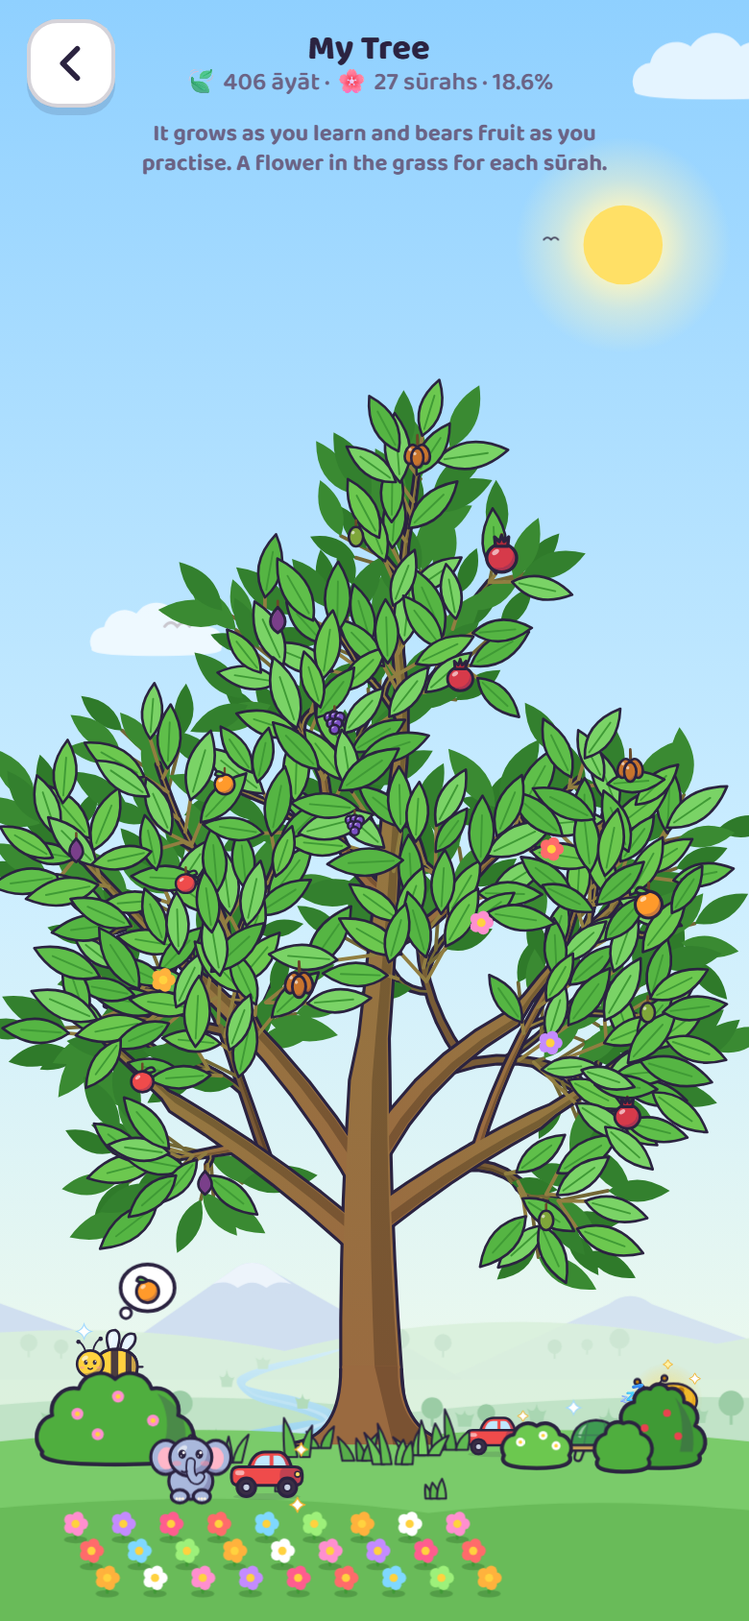
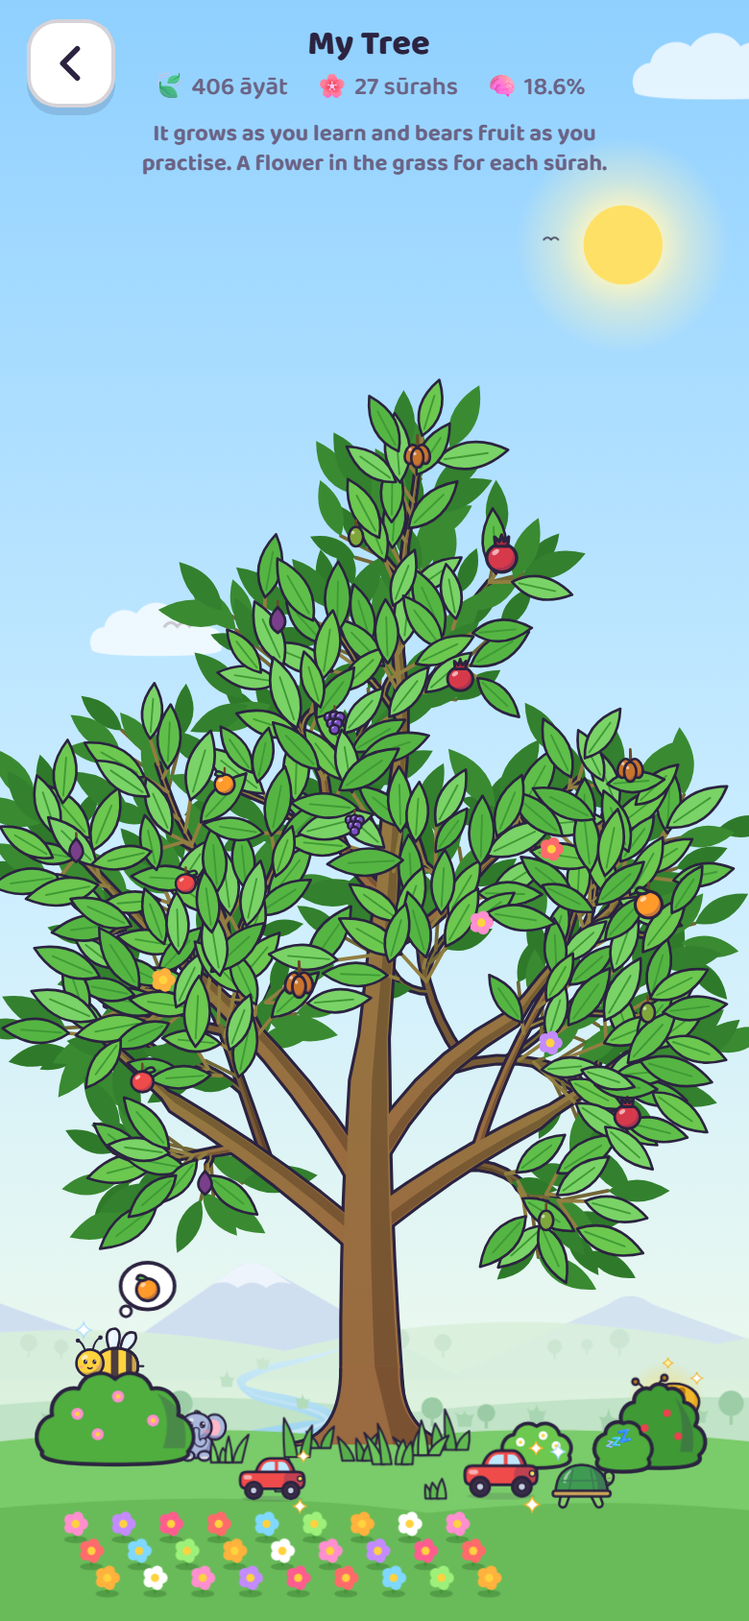
Little Hafiz Quest v2.10.1
The map opens faster (the scenery finds its places in a quarter of the time,
same places). Read lights each word of the chosen āyah as it's recited, in
the page and the close-up card, on every loop. A watch seen from behind shows
its band. My Explorer's View icon full size, its full view doesn't scroll and
the glow fades out before the edges. My Tree's numbers spaced with 🍃 🌸 🧠;
My Achievements uses the same icons and the map's journal book.

Claude-Session: https://claude.ai/code/session_01As7BUX4EtaXuekSPXQDVDY

diff --git a/js/game.js b/js/game.js
@@ -37,7 +37,7 @@
 (function () {
   'use strict';
 
-  const VERSION = '2.10.0';
+  const VERSION = '2.10.1';
   const DATA = window.LHQ_DATA;
   if (!DATA || !Array.isArray(DATA.surahs)) throw new Error('Little Hafiz Quest: js/data.js did not load.');
   const ART = window.LHQ_ART;
@@ -1089,6 +1089,12 @@
         seg = { start: Math.max(0, ay[0] - 0.05), end: ay[1] + 0.15 };
         // Word Steps: the whole āyah plays, and each word lights up as it's recited (v2.8.4)
         if (st.view === 'words' && ay[2] && S[st.i].n === it[0] && st.a === it[1] - 1) seg.ws = ay[2];
+        // Read (v2.10.1): the words of the chosen āyah light up the same way (`k`: which āyah this is; the
+        // Basmalah is -1), whether it was chosen before or while it plays
+        if (st.view === 'mushaf' && ay[2] && (it[0] === 1 || S[st.i].n === it[0])) {
+          seg.ws = ay[2];
+          seg.k = it[0] === 1 ? -1 : it[1] - 1;
+        }
       }
       curSeg = seg;
       markNow(it);
@@ -1136,6 +1142,16 @@
      those not revealed yet) and the one being recited lights up with its bead (`speak`); when the āyah ends
      (j = -1) every word goes back to how it was. */
   function speakWord(j) {
+    if (st.view === 'mushaf') {
+      // Read (v2.10.1): only while that āyah is the chosen one (its colored words, in the page and in the close-up
+      // card); not chosen, the whole āyah is lit instead (markNow)
+      const on = j >= 0 && curSeg && st.sel != null && st.sel === curSeg.k,
+        els = on ? [document.querySelectorAll('.mayah.sel .mw')[j], document.querySelectorAll('.mfocus .fword')[j]].filter(Boolean) : [];
+      if (els.length && els.every((el) => el.classList.contains('speak'))) return;
+      document.querySelectorAll('.mw.speak, .fword.speak').forEach((el) => el.classList.remove('speak'));
+      els.forEach((el) => el.classList.add('speak'));
+      return;
+    }
     const boxes = document.querySelectorAll('.wflow > .wbox'),
       beads = document.querySelectorAll('.beads > .bead');
     if (j >= 0 && boxes[j] && boxes[j].classList.contains('speak')) return;
@@ -2947,7 +2963,7 @@
       : `<button class="wd-side wd-comfy" data-act="comfy" ${fancy ? '' : 'disabled'} aria-label="Just comfy clothes">👕<small>Comfy</small></button>`;
     return `<div class="screen bagscr ${st.fullView && tab !== 'look' ? 'fullv' : ''}">
     ${bar(whoBtn(prof, 'My Explorer'), prof.name || store.profiles.filter((p) => p.made).length > 1 ? 'My Explorer' : '', 'map', giftIcon(prof, 'inbar') + `<button class="btn small editme" data-act="editme" aria-label="Change your explorer: name and look">✏</button>`)}
-    <div class="wd-stage"><button class="wd-ex" data-act="exmove" aria-label="Tap your explorer">${explorer({ view: st.backView && tab !== 'look' ? 'back' : 'front' })}</button>${tab === 'look' ? '' : `${comfy}<button class="wd-side wd-turn" data-act="turn" aria-label="Turn around">↻<small>Turn</small></button><button class="wd-side wd-full" data-act="exfull" aria-label="See your explorer big">⤢<small>View</small></button><button class="wd-side wd-show" data-act="show" aria-label="My achievements">🏆<small>Awards</small></button>`}</div>
+    <div class="wd-stage"><button class="wd-ex" data-act="exmove" aria-label="Tap your explorer">${explorer({ view: st.backView && tab !== 'look' ? 'back' : 'front' })}</button>${tab === 'look' ? '' : `${comfy}<button class="wd-side wd-turn" data-act="turn" aria-label="Turn around">↻<small>Turn</small></button><button class="wd-side wd-full" data-act="exfull" aria-label="See your explorer big">${ICON.fsIn}<small>View</small></button><button class="wd-side wd-show" data-act="show" aria-label="My achievements">🏆<small>Awards</small></button>`}</div>
     ${tab === 'look' ? '' : `<div class="wtwrap"><div class="wtabs" id="wtabs">${tabs}</div><button class="cpmore cpless" data-act="wtscroll" data-d="-1" aria-label="Earlier categories">‹</button><button class="cpmore" data-act="wtscroll" data-d="1" aria-label="More categories">›</button></div>`}
     <div class="wbody">${body}</div>
   </div>`;
@@ -3028,12 +3044,12 @@
   // badges, then the side activities (journal, riddles), then days in a row and time
   const ACH_ROWS = (a, prof) => [
     ['🧠', `${questPct(prof)}%`, 'memorized'],
-    ['🏆', `${a.memorized}`, 'sūrahs memorized'],
-    ['🗣', `${a.ayat}`, `of ${a.allAyat} āyāt learned`],
+    ['🌸', `${a.memorized}`, 'sūrahs memorized'],
+    ['🍃', `${a.ayat}`, `of ${a.allAyat} āyāt learned`],
     ['🎁', `${a.items}`, `of ${a.allItems} things won`],
     ['⭐', `${a.stars}`, `of ${MAX_STARS} stars`],
     ['🏅', `${a.badges}`, a.badges === 1 ? 'star badge' : 'star badges'],
-    ['📔', `${a.found}`, `of ${JKEYS.size} journal finds`],
+    [BOOK_IC, `${a.found}`, `of ${JKEYS.size} journal finds`], // (the map's journal book, v2.10.1)
     ['🔎', `${Math.min(a.riddles, riddleCount())}`, `of ${riddleCount()} riddles found`],
     ['🏃', `${a.streak} ${a.streak === 1 ? 'day' : 'days'}`, `in a row · best ${a.best}`],
     ['⏱', fmtTime(a.time), 'spent learning'],
@@ -3089,7 +3105,7 @@
           row = Math.floor(j / 2),
           x = 80 + col * 470,
           y = 776 + row * 100; // (five rows of two since v2.10.0: clear of the address at the bottom)
-        return `<g transform="translate(${x} ${y})"><rect width="450" height="90" rx="28" fill="#ffffff" fill-opacity=".92"/><text x="30" y="60" font-size="44">${ic}</text><text x="100" y="48" font-size="38" font-weight="800" fill="#2b2340">${esc(big)}</text><text x="100" y="77" font-size="24" font-weight="700" fill="#6b6385">${esc(sub)}</text></g>`;
+        return `<g transform="translate(${x} ${y})"><rect width="450" height="90" rx="28" fill="#ffffff" fill-opacity=".92"/>${ic[0] === '<' ? ic.replace('<svg ', '<svg x="26" y="22" width="54" height="46" ') : `<text x="30" y="60" font-size="44">${ic}</text>`}<text x="100" y="48" font-size="38" font-weight="800" fill="#2b2340">${esc(big)}</text><text x="100" y="77" font-size="24" font-weight="700" fill="#6b6385">${esc(sub)}</text></g>`;
       })
       .join('');
     const svg = `<svg xmlns="http://www.w3.org/2000/svg" width="${X}" height="${Y}" viewBox="0 0 ${X} ${Y}">
@@ -4604,6 +4620,7 @@
         st.fullView = !st.fullView;
         const scr = $app.querySelector('.bagscr');
         if (scr) scr.classList.toggle('fullv', st.fullView);
+        if (st.fullView) scrollTo({ top: 0, behavior: reduceMotion ? 'auto' : 'smooth' }); // (the page doesn't scroll in it, v2.10.1)
         break;
       }
       case 'equip': {
@@ -6400,7 +6417,7 @@
     const spots = budSpots(buds.length, info.size, buds),
       order = buds.map((id, j) => j).sort((p, q) => spots[p].y - spots[q].y),
       hide = [...new Set(spots.filter((sp) => sp.at != null).map((sp) => sp.at))];
-    const sub = `🍃 ${info.leaves} āyāt · 🌸 ${info.memorized} sūrahs · ${questPct(prof)}%`;
+    const sub = `<span class="tstats"><span>🍃 ${info.leaves} āyāt</span><span>🌸 ${info.memorized} sūrahs</span><span>🧠 ${questPct(prof)}%</span></span>`;
     return `<div class="screen treescr${night ? ' night' : ''}">
     ${bar('My Tree', sub, 'map')}
     <p class="tnote">${info.size >= 0.999 ? 'MāshāAllāh! Your tree is fully grown, with a flower for every sūrah.' : 'It grows as you learn and bears fruit as you practise. A flower in the grass for each sūrah.'}</p>

diff --git a/tests/cases/v2101.js b/tests/cases/v2101.js
@@ -1,0 +1,40 @@
+// v2.10.1: Read lights each word of the chosen āyah as it's recited (in the page and in the close-up card), over and
+// over in a loop; with no āyah chosen the whole āyah is lit. And the explorer's watch from behind.
+(async () => {
+  fixture({ items: ['explorer-watch'], outfit: { watch: 'explorer-watch' } });
+  const { w, d, L, idx } = await openGame();
+  const errs = watchErrors(w);
+  const i = idx(112);
+  // 1. an āyah chosen (colored words): Listen plays it, its words light up one after another
+  L.go('mushaf', { i, p: 0, sel: 0, focus: false }); await wait(500);
+  const n = d.querySelectorAll('.mayah.sel .mw').length;
+  const lit = [];
+  const look = (sel) => { const all = [...d.querySelectorAll(sel)], j = all.findIndex((e) => e.classList.contains('speak')); if (j >= 0 && lit[lit.length - 1] !== j) lit.push(j); };
+  d.querySelector('.listen').click();
+  for (let t = 0; t < 80 && d.querySelector('.listen b').textContent === 'Stop'; t++) { await wait(100); look('.mayah.sel .mw'); }
+  log('āyah 1 words', n, '| lit in turn:', lit.join(','));
+  ok('each word of the chosen āyah lights up in turn', n > 1 && lit.length === n && lit.every((j, k) => j === k), lit.join(','));
+  ok('none lit once it ends', !d.querySelector('.mw.speak'));
+  // 2. the close-up card, in a loop (3×): the words light up again from the start
+  L.go('mushaf', { i, p: 0, sel: 0, focus: true }); await wait(500);
+  d.querySelector('.mfloat .loopbtn').click(); await wait(100);
+  lit.length = 0;
+  d.querySelector('.listen').click();
+  for (let t = 0; t < 260 && d.querySelector('.listen b').textContent === 'Stop'; t++) { await wait(100); look('.mfocus .fword'); }
+  log('close-up, loop: lit', lit.join(','));
+  ok('in the close-up card too, and again with each loop', lit.join(',') === [...Array(n).keys(), ...Array(n).keys(), ...Array(n).keys()].join(','), lit.join(','));
+  d.querySelector('.mfloat .loopbtn').click(); await wait(100);
+  // 3. no āyah chosen: the whole āyah lit, no single words
+  L.go('mushaf', { i, p: 0, sel: null, focus: false }); await wait(500);
+  d.querySelector('.listen').click();
+  let whole = false, word = false;
+  for (let t = 0; t < 40; t++) { await wait(100); whole = whole || !!d.querySelector('.mayah.now'); word = word || !!d.querySelector('.speak'); }
+  d.querySelector('.listen').click(); await wait(200);
+  ok('no āyah chosen: the whole āyah is lit, no single words', whole && !word);
+  // 4. the watch from behind: its band and buckle, not its face
+  const A = w.LHQ_ART, look1 = L.store().profiles[0].look;
+  const front = A.explorer(look1, { watch: 'explorer-watch' }, { view: 'front' }), back = A.explorer(look1, { watch: 'explorer-watch' }, { view: 'back' });
+  ok('the watch shows its face from the front and only its band from behind', front.includes('#ef4b4b') && !back.includes('#ef4b4b'));
+  ok('no game errors', !errs.length, errs.slice(0, 3).join('; '));
+  done();
+})();

diff --git a/js/map.js b/js/map.js
@@ -119,8 +119,21 @@
       const top = wi === W.length - 1 ? 0 : (last.y + nodes[last.i + 1].y) / 2;
       return { wi, top, bottom, mid: (first.y + last.y) / 2, first: first.i, last: last.i };
     });
-    // path x at a given y, used to keep props away from the path
-    const pathXs = (y) => path.filter((p) => Math.abs(p.y - y) < 40).map((p) => p.x);
+    // path x at a given y, used to keep props away from the path. (v2.10.1) The points are kept in 40 px rows by
+    // height, so a question looks only at the rows next to it, not the whole path (thousands of questions while
+    // the scenery finds its places); the same points come back, in the path's order
+    const rows = new Map();
+    path.forEach((p, k) => {
+      const r = Math.floor(p.y / 40);
+      if (!rows.has(r)) rows.set(r, []);
+      rows.get(r).push(k);
+    });
+    const pathXs = (y) => {
+      const r = Math.floor(y / 40),
+        ks = [];
+      for (let j = r - 1; j <= r + 1; j++) for (const k of rows.get(j) || []) if (Math.abs(path[k].y - y) < 40) ks.push(k);
+      return ks.sort((a, b) => a - b).map((k) => path[k].x);
+    };
     // the borders between worlds and where the path crosses them (center, length across the strip, angle)
     const borders = bands.slice(0, -1).map((b) => {
       const y = b.top,
@@ -209,7 +222,8 @@
       // Nothing is placed where its picture would cover another one (so no animal hides behind a mountain),
       // and everything is drawn back to front, so what stands nearer is drawn over what stands further away.
       const walkers = new Set(ART.WALKERS || []);
-      const isTall = (name) => /viewBox="0 0 100 150"/.test(ART.props[name] || ''); // trees, palms, cacti… are drawn 100×150
+      const tall = new Map(), // (each kind looked up once: v2.10.1)
+        isTall = (name) => (tall.has(name) ? tall.get(name) : tall.set(name, /viewBox="0 0 100 150"/.test(ART.props[name] || '')).get(name)); // trees, palms, cacti… are drawn 100×150
       const grow = Math.max(1, Math.min(1.35, width / 460)); // props a little bigger on tablets and computers
       const scenery = []; // { y, html }, sorted by y before drawing
       const propHTML = (name, x, y, size, hgt, rnd, wi) => {

diff --git a/js/art.js b/js/art.js
@@ -1756,6 +1756,8 @@
   function watch(band, face, inner, big) {
     // a glowing watch (face.glow): a soft halo around its face that breathes (v2.8.4)
     const halo = (r) => (face.glow ? G(CF(0, 0, r, face.glow, 0.22) + CF(0, 0, r * 0.8, face.glow, 0.3), cls('wglow')) : '');
+    // (v2.10.1) from behind: the band and its buckle, no face
+    if (big === 'back') return P(rr(-9.6, -4.6, 19.2, 9.2, 3.4), band) + P(rr(-3.4, -3.4, 6.8, 6.8, 1.4), 'none', ' stroke="#c9d2e3" stroke-width="1.8"') + L('M0 -3.4L0 3.4', '#c9d2e3', 1.4);
     if (!big) return halo(11) + P(rr(-9.6, -4.6, 19.2, 9.2, 3.4), band) + ball(0, 0, 6, 6, face.rim, { sh: false, hl: false }) + C(0, 0, 3.8, face.c, sw(1.4)) + (face.mini || '');
     return halo(36) + S(rr(-12, -44, 24, 88, 10), band, rr(4, -44, 8, 88, 4)) + [-34, -26, 26, 34].map((y) => CF(0, y, 2, dk(band, 0.4))).join('') +
       ball(0, 0, 24, 24, face.rim, { hl: false }) + C(0, 0, 18, face.c) + inner + F('M-14 -8Q-12 -14 -6 -16Q-11 -9 -12 -2Z', '#fff', 0.55);
@@ -2018,6 +2020,7 @@
   WATCHES().forEach((id) => {
     const a = ART[id];
     a.ex = () => G(OUT(a.w(false) + fxm(BYID[id].tier, [[-9, -8], [9, 7]], 0.8), 2.2), WATCH_AT);
+    a.exb = () => G(OUT(a.w('back'), 2.2), WATCH_AT); // (seen from behind, v2.10.1)
   });
 
   /* ---------- explorer assembly ---------- */
@@ -2148,7 +2151,7 @@
     const sleeve = S(SLEEVE, top.sl, SLEEVE_SH) + S(CUFF, top.cf);
     const hand = ball(HAND[0], HAND[1], HAND[2], HAND[2], sk, { hl: false, dx: 0.2, dy: 0.25 });
     const stickArt = o.stick ? G(G(ART[o.stick].ex() + fxOf('stick'), STICK_TILT), cls('ex-stick')) : '',
-      watchArt = o.watch ? ART[o.watch].ex() : '';
+      watchArt = o.watch ? (back && ART[o.watch].exb ? ART[o.watch].exb() : ART[o.watch].ex()) : '';
     const stickHand = stickArt + hand + L('M41.6 207.6Q46 205.4 50.6 207', dk(sk, 0.35), 1.6) + watchArt;
     const otherHand = G(hand, MIR) + (o.shield ? ART[o.shield].ex() : ''); // the free hand, on the other side from the staff
     // (v2.10.0) seen from the back, what the hands hold is on the far side of the explorer: the staff and the shield

diff --git a/css/game.css b/css/game.css
@@ -10438,3 +10438,48 @@ body.riddling .mfruit::after {
   transform: none;
   animation: none;
 }
+
+/* ---------- 2026-11-11 · v2.10.1: My Explorer's View icon a proper size; the glow behind the explorer fades out
+   before the edges (no box in the full view); the full view doesn't scroll; Read lights each word as it's recited;
+   My Tree's numbers spaced, without dots ---------- */
+.wd-side svg.i {
+  width: 24px;
+  height: 24px;
+  color: var(--ink);
+}
+.bagscr .wd-stage {
+  background:
+    radial-gradient(ellipse 130px 16px at 50% calc(100% - 18px), rgba(0, 0, 0, 0.16), rgba(0, 0, 0, 0)),
+    radial-gradient(ellipse closest-side at 50% 55%, rgba(255, 255, 255, 0.75), rgba(255, 255, 255, 0));
+}
+html:has(.bagscr.fullv),
+html:has(.bagscr.fullv) body {
+  overflow: hidden;
+  overscroll-behavior: none;
+}
+.bagscr.fullv {
+  touch-action: none;
+}
+.mw,
+.fword {
+  transition:
+    transform 0.15s,
+    box-shadow 0.15s;
+}
+.mw.speak,
+.fword.speak {
+  position: relative;
+  z-index: 1;
+  box-shadow: 0 0 0 3px var(--wc);
+  transform: scale(1.1);
+}
+.tstats {
+  display: flex;
+  justify-content: center;
+  gap: 14px;
+  margin-top: 5px;
+}
+.ach-ic .wr-mapic {
+  width: 30px;
+  height: 26px;
+}

diff --git a/sw.js b/sw.js
@@ -17,7 +17,7 @@
  */
 'use strict';
 
-const VERSION = '2.10.0';
+const VERSION = '2.10.1';
 const SHELL_CACHE = `lhq2-shell-${VERSION}`;
 const AUDIO_CACHE = 'lhq2-audio'; // keep across app updates; change only if the audio files change
 const DATA_CACHE = 'lhq2-data'; // small lists that can change between versions (reciters, versions)

diff --git a/HANDOFF.md b/HANDOFF.md
@@ -3,7 +3,7 @@
 Read this first in a new session. It is kept up to date with every release (see "Release flow" below).
 `README.md` is a short public overview (highlights, install, privacy, credits); this file holds the detail.
 
-**Current version:** v2.10.0 (2026-11-11) · **Live:** https://akramali.github.io/little-hafiz-quest/ ·
+**Current version:** v2.10.1 (2026-11-11) · **Live:** https://akramali.github.io/little-hafiz-quest/ ·
 **Repo:** https://github.com/akramali/little-hafiz-quest (branch `main`; `v1` keeps the retired classic version)
 
 ---
@@ -262,6 +262,12 @@ The test fixture's memorized sūrahs have campfires lit two days ago (roaring, b
   what the question shows (v2.7.5: the āyah given, or its first `cut` words as one item `[n, k, 0, cut-1]`, a
   word-range item `playNext` understands; Listen sits top right as everywhere, shown only in the ask phase;
   the title says "Test · <sūrah>" with the question dots under it, the pair exactly as tall as Listen, v2.7.7); Picture Puzzle → the next piece to place, then the whole once all are in (v2.7.3); the rest as before.
+- **Read's words follow the reciter** (v2.10.1): with an āyah chosen (its coloured words, or its close-up card), Listen
+  lights each word as it's recited, like Word Steps (`seg.ws` and `seg.k` for the muṣḥaf in `playNext`; `speakWord`
+  puts `.speak` on `.mayah.sel .mw` and `.mfocus .fword`), from the first word again on each loop; with none chosen
+  the whole āyah is lit (`markNow`). Chosen while it plays: from the next word on.
+- **Seen from behind** (v2.10.1): the explorer's staff and shield are behind the body (a shield shows its back,
+  `exb`), and a watch shows its band and buckle, no face (`watch(…, 'back')`, `exb`).
 - **Pop-ups:** a tap outside closes any of them (v2.7.16): the Teacher's card = Not now, out of hearts = Next time
   (back to the sūrah; "Try again" is the explicit choice, `dropNext`), the welcome shows again next map visit.
 - **Swiping pages** (v2.7.14; on phones by touch events since v2.7.16, as a browser may cancel pointer events
@@ -396,11 +402,15 @@ The test fixture's memorized sūrahs have campfires lit two days ago (roaring, b
   holds its frame rate; My Tree was the one that didn't (24 fps at 100% without a GPU): now its tree is a layer of its
   own (`.ttree` between `.tback` and `.tfront`, swaying as a whole on the graphics card), kept between redraws
   (`treeArt`), drawn with half the elements (dark leaves and twigs as one shape a colour, a leaf's fill and outline in
-  one), and at most 40 new leaves pop in. **Next: v2.10.1 (agreed with the user):** the map takes ~140 ms to open (`MAP.mount` builds
-  357 KB of HTML, ~3,500 SVG elements, a 110 ms long task: each scenery prop drawn in full every time, ~68 kinds).
-  Plan: the **still** props drawn once as `<symbol>`s and placed with `<use>`; props with animations inside stay full
-  copies (Safari has had bugs animating inside `<use>`, and can't be tested here). Measure before/after with
-  `GPU=1 tests/run.sh perf` (v2.10.0: map draw 141 ms, 4,500 nodes), run `tests/t.sh map`, compare screenshots.
+  one), and at most 40 new leaves pop in. **The map (v2.10.1):** opening it took ~65 ms of script here, and timing
+  `MAP.mount` section by section showed where: finding the scenery its places, 25 ms (`pathXs` scanned the whole
+  path for each of thousands of tried spots; now it looks only at the 40 px rows by height around it, the same points
+  in the same order; `isTall` searched each prop's drawing three times a try; now once a kind), down to ~7 ms;
+  the same places exactly (checked by a fingerprint of every position). The rest is the browser's first layout of
+  ~3,800 elements (~25 ms) and putting the HTML in (~9 ms). **Tried and dropped:** each prop drawn once and placed
+  with `<use>` (still ones only, then all of them): 30–45 KB less HTML but no measurable time, and Safari has had bugs
+  animating inside `<use>`. If the map needs to be faster still, the next idea is keeping the map between visits
+  (rebuilding only what changed) rather than drawing less.
 
 - Side activities brainstormed and not built yet (v2.9.0 built the riddle, the buddy, the garden and special days):
   bedtime sūrah by the campfire, story pages per world, a daily postcard, an echo game, a family challenge.
@@ -422,4 +432,4 @@ v2.3–2.4: nature sounds, jigsaw, Read view, awards, files. v2.5.0: family sync
 classic v1 retired, word meanings. v2.5.1–2.5.8: buttons, speed, info/how-to, fruit and animals, all explorers on
 the map, chain setting, gift fixes, faces, glasses, Big Puzzle. v2.6.0: golden/green worlds, world rides, speed
 button, one-tap gifts, the Wise Elder. v2.6.1–2.6.6: Wise Elder polish, closing animations, stakes (every miss costs,
-world throws, protection), battle ground in the world's colors. v2.6.7: the Wise Elder every 10 minutes; speed and loop in Word Steps and Stepping Stones. v2.6.8: Read starts with the Bismillah (āyah -1, word data in `BISM_WORDS`) and follows the recited āyah; the screen stays on while reciting (`keepAwake`, Wake Lock; 99× loops let go after 15 min); full world names in the list. v2.6.9: no text selection or long-press menus (text boxes and the share picture excepted); zoom kept. v2.6.10: My Achievements fits on one screen. v2.6.11: the Stranger becomes the Wise Elder (a kind old man, star staff, woven belt, swaying robe), renamed everywhere. v2.6.12: the Wise Elder walks with you through the world (taller, comforting, soft hurt, neutral "Test" wording), gives his staff at the summit; Read with the Bismillah plays the whole sūrah again. v2.6.13: the Wise Elder every 7 minutes, gentler robe sway, simpler praise; the temporary Elder test button removed. v2.10.0: family links about half as long (format 3); riddles one and done (240, in an order of each explorer's own; the journal header's 🔎 shows the way to the next gift, every seventh found, two minutes apart, seven a day at most; fruit to catch, bridges, signs and every sūrah stop to find); a new recitation, Alafasy live in California (QuranicAudio + QUA timings); how much is memorized (`questPct`: āyāt 30, memorized 30, golden 40, to one decimal; only the learning, not the gifts or side games, so it says "memorized") on My Tree and as the first of My Achievements' ten boxes (`ACH_ROWS`, by priority: % memorized, sūrahs, āyāt, things won; stars, star badges; journal, riddles; days in a row, time; the Share picture five rows of two); the finish screen's star slots to the next prize (`nextPrizeNote`, the new star popping in); My Explorer's full view (⤢ View; back leaves it first); the next learning step's gold ring drawn over its bottom edge, quicker, a stronger glow; Word Steps lights only the word being recited while Listen plays; the Teacher's end screen fits short phones (the square gift box kept); dates drawn as an amber bunch, more fruit kinds sooner; the throw badges a size smaller; My Tree in three layers (smooth at full size). v2.9.5: each review game's hearts left on its star line on the sūrah page (no "careful, 3 hearts!" line; `gameHearts`/`heartsFor`); no Start buttons on the steps: the next learning step glows softly (`.qstep.glow`), review games never; at night most buddies sleep, one or two stay up (`nightOwls`, a new pair each ten minutes); the map's animals run off facing the way they go (`runAway` turns them, pauses their stroll); in Stepping Stones the heart goes once the frog has fallen in (`oopsAt`, one misstep at a time); the garden by night darker and bluer (`nightTint`: ground, bushes, mound, tufts); no leaves before the first āyah (just the mound); the riddle's gold outline itself breathes in and out. v2.9.4: the sun and moon never under the note, the sky right up under the status bar, the riddle's clue on the map opens and closes like a card (a bigger ✕) and, like the journal's, glows breathing slowly; hearts lost in a review game stay lost until it's finished (in memory, `heartsLeft`, refilled by finishing or closing the app); a new āyah in Look & Repeat and Word Steps slides in however it came (`lastAyah` in `render`); puzzle pieces tinted from their pictures as the phone draws them (`emojiTint`); a thing's blocks in its tile's corner still (`blockIcons`: two side by side, the apple under the acorn, ✨ for everything); the world's drifting animals only on the sūrah's page, not inside a step or Read; the speed labels under the slider's stops (`--n`); the frog's misstep (worried, falls in halfway through a hop, smiling again on its stone; `placeTap` measures where it sits). v2.9.3: the note no longer under the bar on notched phones, one flower name at a time, buddies do a move when tapped (closed eyes and 💤 fading for sleepers), fallen fruit lies on the ground for a squirrel or rabbit and grows back, a smooth sway (gusts on their own layer), the moon's glow fades, README pictures of My Tree, the journal and a riddle. v2.9.2: My Tree fills the screen with a whole world (sky, far mountains, hills and a river), grows naturally from a seedling (leaves on twigs, light and dark, sized by age; wood green to brown; bushes and fruit growing with it), more buddies coming and going, flowers show their sūrah, no buddy messages, smooth walk back after eating; the start screen's trail one smooth path with a plain Summit sign. v2.9.1: seven riddles a day from all over the map (opened from the journal, a minute apart, no tries), My Tree (one tree for the whole journey, the buddies around it, fruit to feed them, stickers to hang) replacing the plants at the stops and the buddy care on the map, the Teacher stays near the explorer's world, the 🌰/🍎 throw icon alternates, shorter "your things fell" messages. v2.9.0 (never reached anyone): special days (garlands, greetings, stickers), campfires low or out on mistakes, 30 s per answer, speeds 0.5–1.5×. v2.8.4: the Teacher's test 3–7 questions by length, 15 s per answer, his round stops for the day (in a card), the Summit crown only with every sūrah memorized (early ones taken back), journal pictures only from begun checkpoints (early ones dropped), the campfire burning up to roaring on done pages and after his test, no star shown on a revision, family links carry the version (newer: update first), speeds 0.5–2× with 1.25×, Word Steps lights each word as recited, every design at once with every sūrah memorized, "N of M things won", more pants/watches (glowing ones)/glasses/capes/sticks/shields/hijabs/kufis and 16 new stickers. v2.8.3: the sūrahs list rings each number gold/green, Stars without campfires and with whole meanings. v2.8.2: the roaring campfire redrawn (the strong flame, bigger, with two tips). v2.8.1: the Stranger keeps bridges from World 4 up (never on the map), once per world memorized from the start; the farewell at the end; streaks right on clock-change days. v2.8.0: the Stranger returns (once per world memorized, the Teacher at your side, nothing lost; the last time with the whole Juz), six campfire steps, hearts 4 and 5 from worlds 5 and 6, the frog lands on the next set, patterned gifts no longer freeze their card, saved names `teacher`/`stranger`. v2.7.23: journal pictures only in Look & Repeat. v2.7.22: 50 pattern versions of everyday things, surprises paced to last until every star. v2.7.21: Teacher visits regardless (more for cold fires), winning back = the gift, frog bank/slip, apples and ice, aviator shades redrawn, stickers still to win as tiles. v2.7.20: the streak button reads "🏃 4 days". v2.7.19: the install banner under the top buttons, called Install. v2.7.18: install banner. v2.7.17: Home zooms back out, ✏ Change your explorer, 🏃 streak, the update note closes on a tap outside. v2.7.16: making an explorer laid out like My look, every color for everyone, tap outside closes any pop-up (out of hearts: Next time), swipes work by touch on phones. v2.7.15: the explorer's name as the title of My Explorer / My Achievements. v2.7.14: swipe and Back in How to play, swipe in Word Steps, map bubbles kept on screen. v2.7.13: campfires over three weeks, low ones breathe, the Teacher visits cold fires, relit fires flare, campfires in the sūrahs list. v2.7.12: How to play = the Teacher's guide cards; every journal thing always on the map. v2.7.11: the welcome covers the four steps, dressing up, campfires and the journal. v2.7.10: install steps brought up to date (iOS 26 Safari: ⋯ → Share → Add to Home Screen, Open as Web App on; Android Chrome: ⋮ → Add to home screen / Install app → Install) in the README and the fullscreen tip. v2.7.9: lost things in a small heap close to their sūrah. v2.7.8: lost things never overlap. v2.7.7: the test's header ("Test · sūrah", dots under it, level with Listen). v2.7.6: tap a campfire for its status; Listen top right in the test. v2.7.5: Listen in the Teacher's test (question only), misses dim the campfire, the campfire on the sūrah page, swipe in Look & Repeat, lost things kept on screen. v2.7.4: speed and loop in chain time. v2.7.3: Listen plays the lit chain āyah / the next puzzle piece; the explorer switcher matches the Explorers page. v2.7.2: "Your Teacher", tap to add to the journal, the journal as a book (swipe pages), its button under the worlds button, pastel comfy colors and shoe colors, switch explorer by the name, journal finds in Achievements. v2.7.1: family links carry every field (extras block); backups verified field by field. v2.7.0: campfires, the journal hunt, streaks, the Wise Elder's welcome and walking stick, Begin the quest, things on the map react (the boat sails off), the Elder's timer after 3 memorized sūrahs. v2.6.14: the Wise Elder roams the map (tap for a test, one gift a day), rematches wait for his timer, Auto theme by sunrise/sunset, still stickers, a new bee, the Version card updates in place. Full detail: `git log` and `changelog.json`.
+world throws, protection), battle ground in the world's colors. v2.6.7: the Wise Elder every 10 minutes; speed and loop in Word Steps and Stepping Stones. v2.6.8: Read starts with the Bismillah (āyah -1, word data in `BISM_WORDS`) and follows the recited āyah; the screen stays on while reciting (`keepAwake`, Wake Lock; 99× loops let go after 15 min); full world names in the list. v2.6.9: no text selection or long-press menus (text boxes and the share picture excepted); zoom kept. v2.6.10: My Achievements fits on one screen. v2.6.11: the Stranger becomes the Wise Elder (a kind old man, star staff, woven belt, swaying robe), renamed everywhere. v2.6.12: the Wise Elder walks with you through the world (taller, comforting, soft hurt, neutral "Test" wording), gives his staff at the summit; Read with the Bismillah plays the whole sūrah again. v2.6.13: the Wise Elder every 7 minutes, gentler robe sway, simpler praise; the temporary Elder test button removed. v2.10.1: the map opens faster (the scenery finds its places in a quarter of the time, `pathXs` by rows, `isTall` once a kind); Read lights each word of the chosen āyah as recited (page and close-up, every loop); a watch seen from behind shows its band; My Explorer's View button uses the full-screen icon, its full view doesn't scroll and the glow behind the explorer fades out before the edges (`closest-side`); My Tree's three numbers spaced (🍃 āyāt, 🌸 sūrahs, 🧠 %), the same icons on My Achievements with the map's journal book (`BOOK_IC`, drawn into the Share picture too). v2.10.0: family links about half as long (format 3); riddles one and done (240, in an order of each explorer's own; the journal header's 🔎 shows the way to the next gift, every seventh found, two minutes apart, seven a day at most; fruit to catch, bridges, signs and every sūrah stop to find); a new recitation, Alafasy live in California (QuranicAudio + QUA timings); how much is memorized (`questPct`: āyāt 30, memorized 30, golden 40, to one decimal; only the learning, not the gifts or side games, so it says "memorized") on My Tree and as the first of My Achievements' ten boxes (`ACH_ROWS`, by priority: % memorized, sūrahs, āyāt, things won; stars, star badges; journal, riddles; days in a row, time; the Share picture five rows of two); the finish screen's star slots to the next prize (`nextPrizeNote`, the new star popping in); My Explorer's full view (⤢ View; back leaves it first); the next learning step's gold ring drawn over its bottom edge, quicker, a stronger glow; Word Steps lights only the word being recited while Listen plays; the Teacher's end screen fits short phones (the square gift box kept); dates drawn as an amber bunch, more fruit kinds sooner; the throw badges a size smaller; My Tree in three layers (smooth at full size). v2.9.5: each review game's hearts left on its star line on the sūrah page (no "careful, 3 hearts!" line; `gameHearts`/`heartsFor`); no Start buttons on the steps: the next learning step glows softly (`.qstep.glow`), review games never; at night most buddies sleep, one or two stay up (`nightOwls`, a new pair each ten minutes); the map's animals run off facing the way they go (`runAway` turns them, pauses their stroll); in Stepping Stones the heart goes once the frog has fallen in (`oopsAt`, one misstep at a time); the garden by night darker and bluer (`nightTint`: ground, bushes, mound, tufts); no leaves before the first āyah (just the mound); the riddle's gold outline itself breathes in and out. v2.9.4: the sun and moon never under the note, the sky right up under the status bar, the riddle's clue on the map opens and closes like a card (a bigger ✕) and, like the journal's, glows breathing slowly; hearts lost in a review game stay lost until it's finished (in memory, `heartsLeft`, refilled by finishing or closing the app); a new āyah in Look & Repeat and Word Steps slides in however it came (`lastAyah` in `render`); puzzle pieces tinted from their pictures as the phone draws them (`emojiTint`); a thing's blocks in its tile's corner still (`blockIcons`: two side by side, the apple under the acorn, ✨ for everything); the world's drifting animals only on the sūrah's page, not inside a step or Read; the speed labels under the slider's stops (`--n`); the frog's misstep (worried, falls in halfway through a hop, smiling again on its stone; `placeTap` measures where it sits). v2.9.3: the note no longer under the bar on notched phones, one flower name at a time, buddies do a move when tapped (closed eyes and 💤 fading for sleepers), fallen fruit lies on the ground for a squirrel or rabbit and grows back, a smooth sway (gusts on their own layer), the moon's glow fades, README pictures of My Tree, the journal and a riddle. v2.9.2: My Tree fills the screen with a whole world (sky, far mountains, hills and a river), grows naturally from a seedling (leaves on twigs, light and dark, sized by age; wood green to brown; bushes and fruit growing with it), more buddies coming and going, flowers show their sūrah, no buddy messages, smooth walk back after eating; the start screen's trail one smooth path with a plain Summit sign. v2.9.1: seven riddles a day from all over the map (opened from the journal, a minute apart, no tries), My Tree (one tree for the whole journey, the buddies around it, fruit to feed them, stickers to hang) replacing the plants at the stops and the buddy care on the map, the Teacher stays near the explorer's world, the 🌰/🍎 throw icon alternates, shorter "your things fell" messages. v2.9.0 (never reached anyone): special days (garlands, greetings, stickers), campfires low or out on mistakes, 30 s per answer, speeds 0.5–1.5×. v2.8.4: the Teacher's test 3–7 questions by length, 15 s per answer, his round stops for the day (in a card), the Summit crown only with every sūrah memorized (early ones taken back), journal pictures only from begun checkpoints (early ones dropped), the campfire burning up to roaring on done pages and after his test, no star shown on a revision, family links carry the version (newer: update first), speeds 0.5–2× with 1.25×, Word Steps lights each word as recited, every design at once with every sūrah memorized, "N of M things won", more pants/watches (glowing ones)/glasses/capes/sticks/shields/hijabs/kufis and 16 new stickers. v2.8.3: the sūrahs list rings each number gold/green, Stars without campfires and with whole meanings. v2.8.2: the roaring campfire redrawn (the strong flame, bigger, with two tips). v2.8.1: the Stranger keeps bridges from World 4 up (never on the map), once per world memorized from the start; the farewell at the end; streaks right on clock-change days. v2.8.0: the Stranger returns (once per world memorized, the Teacher at your side, nothing lost; the last time with the whole Juz), six campfire steps, hearts 4 and 5 from worlds 5 and 6, the frog lands on the next set, patterned gifts no longer freeze their card, saved names `teacher`/`stranger`. v2.7.23: journal pictures only in Look & Repeat. v2.7.22: 50 pattern versions of everyday things, surprises paced to last until every star. v2.7.21: Teacher visits regardless (more for cold fires), winning back = the gift, frog bank/slip, apples and ice, aviator shades redrawn, stickers still to win as tiles. v2.7.20: the streak button reads "🏃 4 days". v2.7.19: the install banner under the top buttons, called Install. v2.7.18: install banner. v2.7.17: Home zooms back out, ✏ Change your explorer, 🏃 streak, the update note closes on a tap outside. v2.7.16: making an explorer laid out like My look, every color for everyone, tap outside closes any pop-up (out of hearts: Next time), swipes work by touch on phones. v2.7.15: the explorer's name as the title of My Explorer / My Achievements. v2.7.14: swipe and Back in How to play, swipe in Word Steps, map bubbles kept on screen. v2.7.13: campfires over three weeks, low ones breathe, the Teacher visits cold fires, relit fires flare, campfires in the sūrahs list. v2.7.12: How to play = the Teacher's guide cards; every journal thing always on the map. v2.7.11: the welcome covers the four steps, dressing up, campfires and the journal. v2.7.10: install steps brought up to date (iOS 26 Safari: ⋯ → Share → Add to Home Screen, Open as Web App on; Android Chrome: ⋮ → Add to home screen / Install app → Install) in the README and the fullscreen tip. v2.7.9: lost things in a small heap close to their sūrah. v2.7.8: lost things never overlap. v2.7.7: the test's header ("Test · sūrah", dots under it, level with Listen). v2.7.6: tap a campfire for its status; Listen top right in the test. v2.7.5: Listen in the Teacher's test (question only), misses dim the campfire, the campfire on the sūrah page, swipe in Look & Repeat, lost things kept on screen. v2.7.4: speed and loop in chain time. v2.7.3: Listen plays the lit chain āyah / the next puzzle piece; the explorer switcher matches the Explorers page. v2.7.2: "Your Teacher", tap to add to the journal, the journal as a book (swipe pages), its button under the worlds button, pastel comfy colors and shoe colors, switch explorer by the name, journal finds in Achievements. v2.7.1: family links carry every field (extras block); backups verified field by field. v2.7.0: campfires, the journal hunt, streaks, the Wise Elder's welcome and walking stick, Begin the quest, things on the map react (the boat sails off), the Elder's timer after 3 memorized sūrahs. v2.6.14: the Wise Elder roams the map (tap for a test, one gift a day), rematches wait for his timer, Auto theme by sunrise/sunset, still stickers, a new bee, the Version card updates in place. Full detail: `git log` and `changelog.json`.
